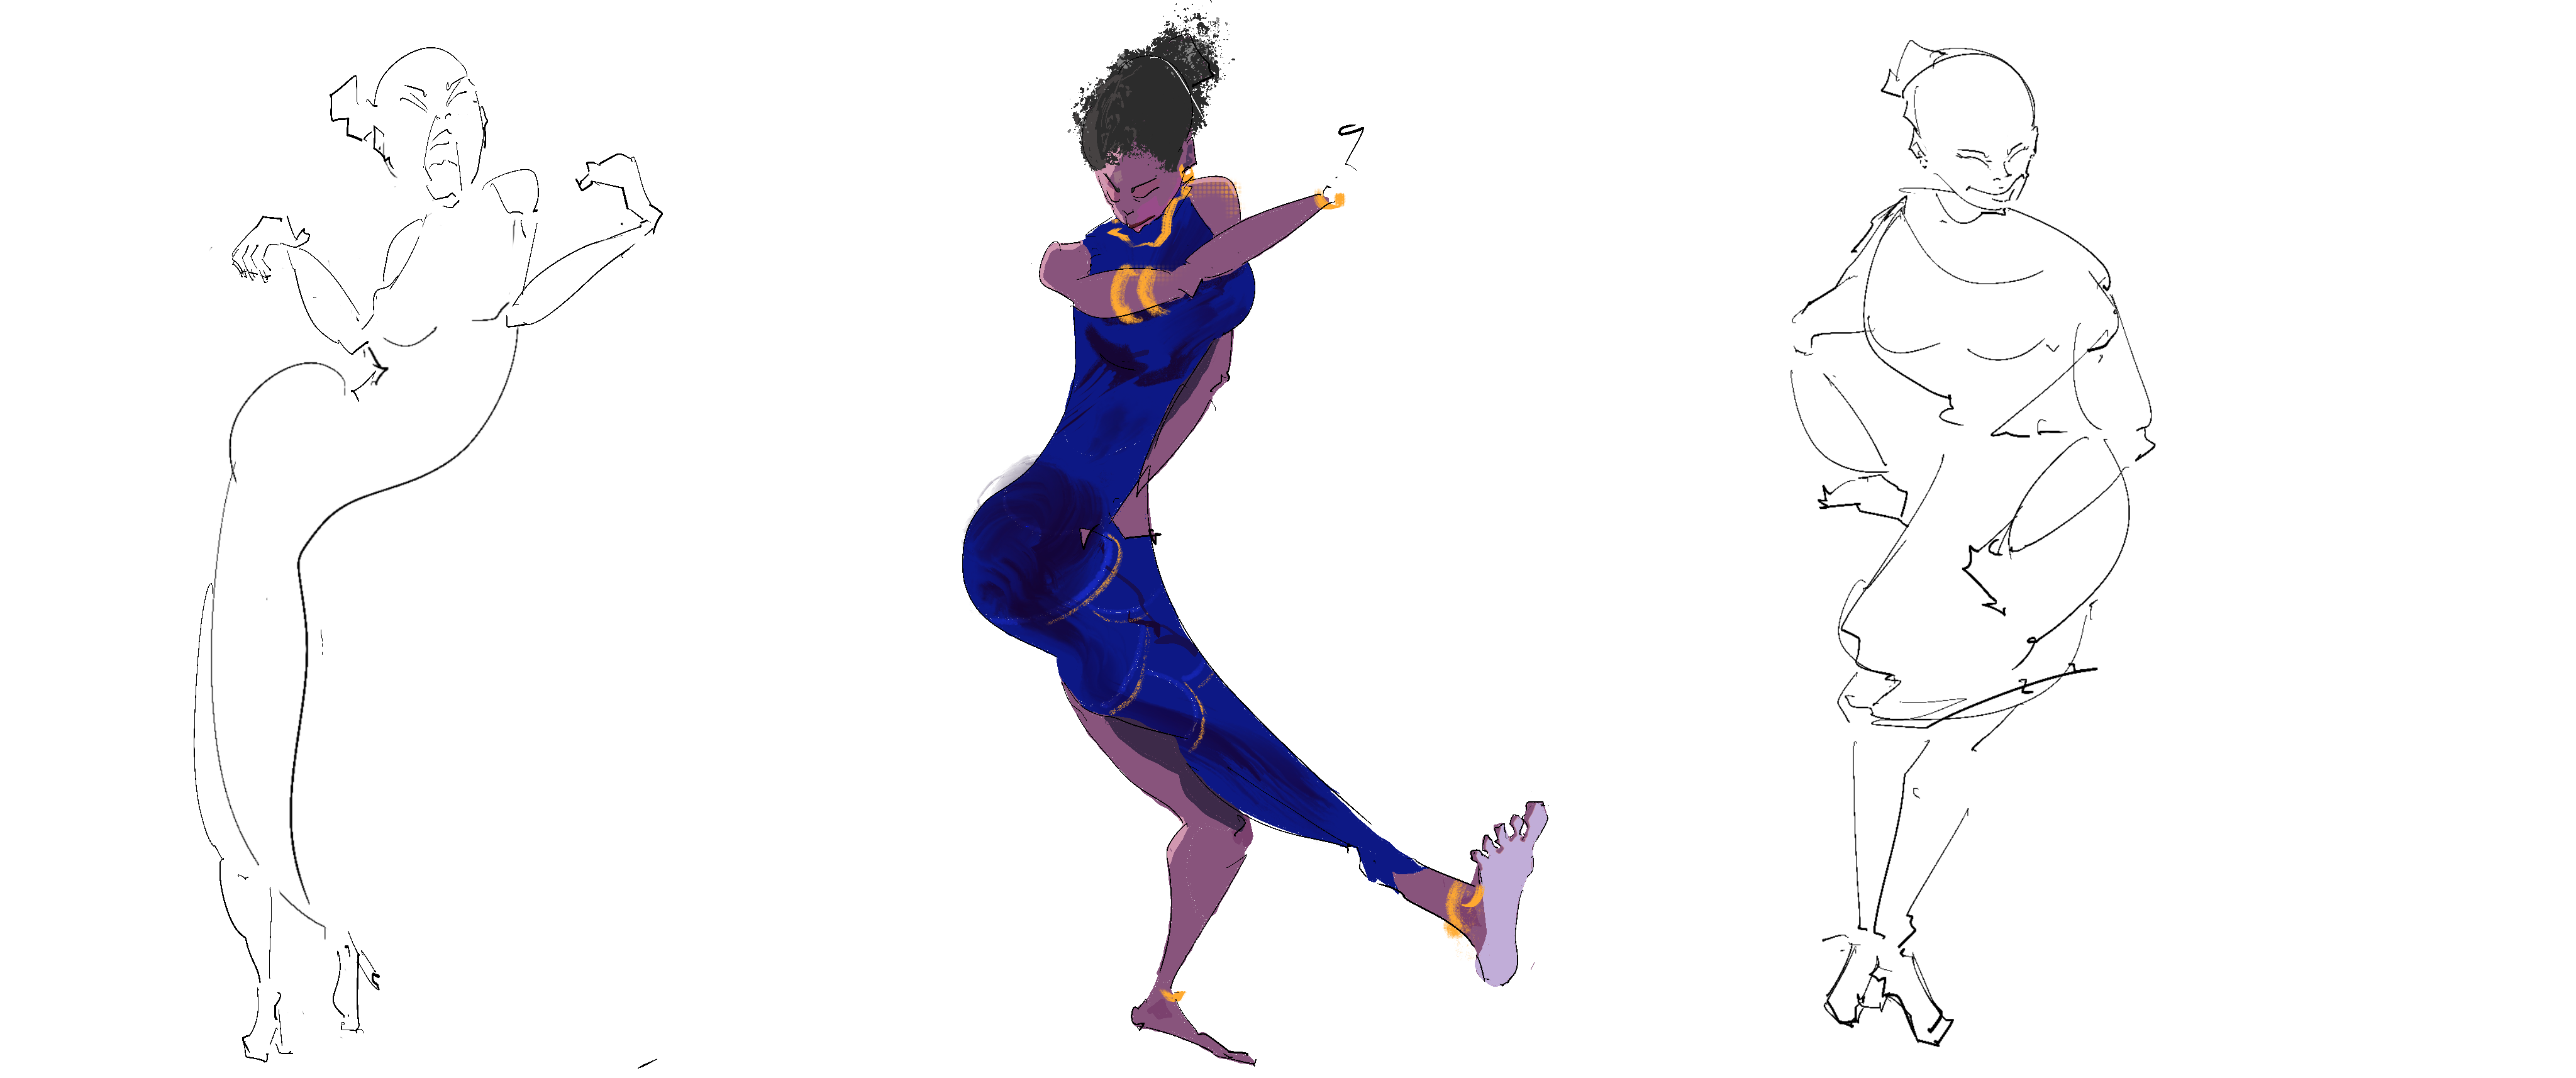
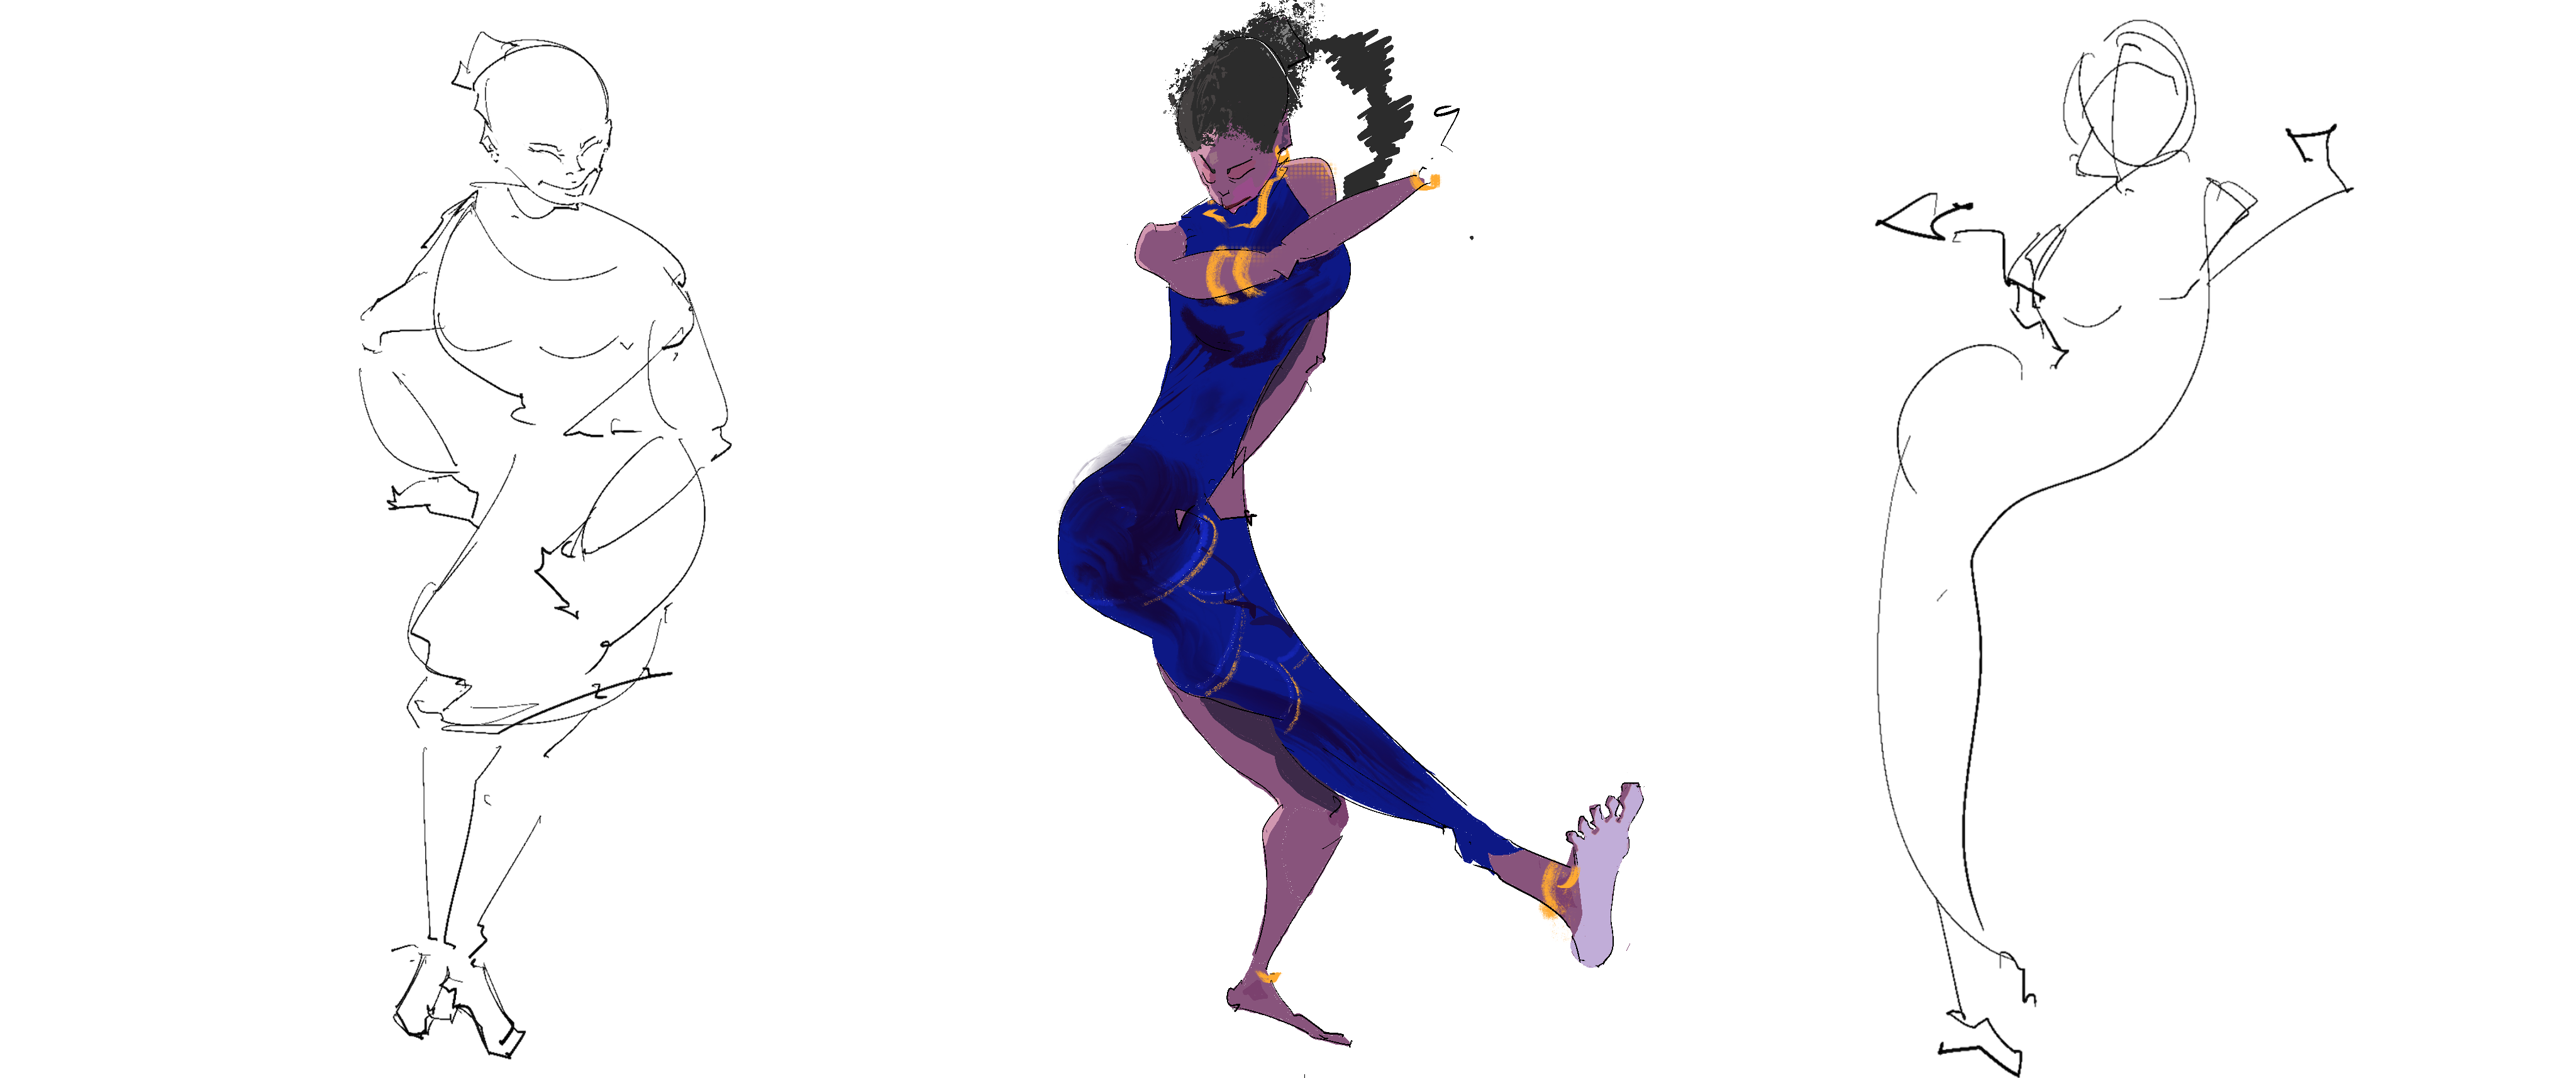
new msmango

diff --git a/src/data/projects.ts b/src/data/projects.ts
@@ -54,8 +54,8 @@ const projects: Project[] = [
         media: [
         { type: "image", src: "/proj/msmango/0.png" },
         { type: "image", src: "/proj/msmango/1.png" },
-        { type: "image", src: "/proj/msmango/3.png" },
         { type: "image", src: "/proj/msmango/2.png" },
+        { type: "image", src: "/proj/msmango/4.png" },
         { type: "vimeo", src: "https://player.vimeo.com/video/1206046373?h=4182720358?autoplay=1&loop=1&muted=1&background=1" },
         ]
     },